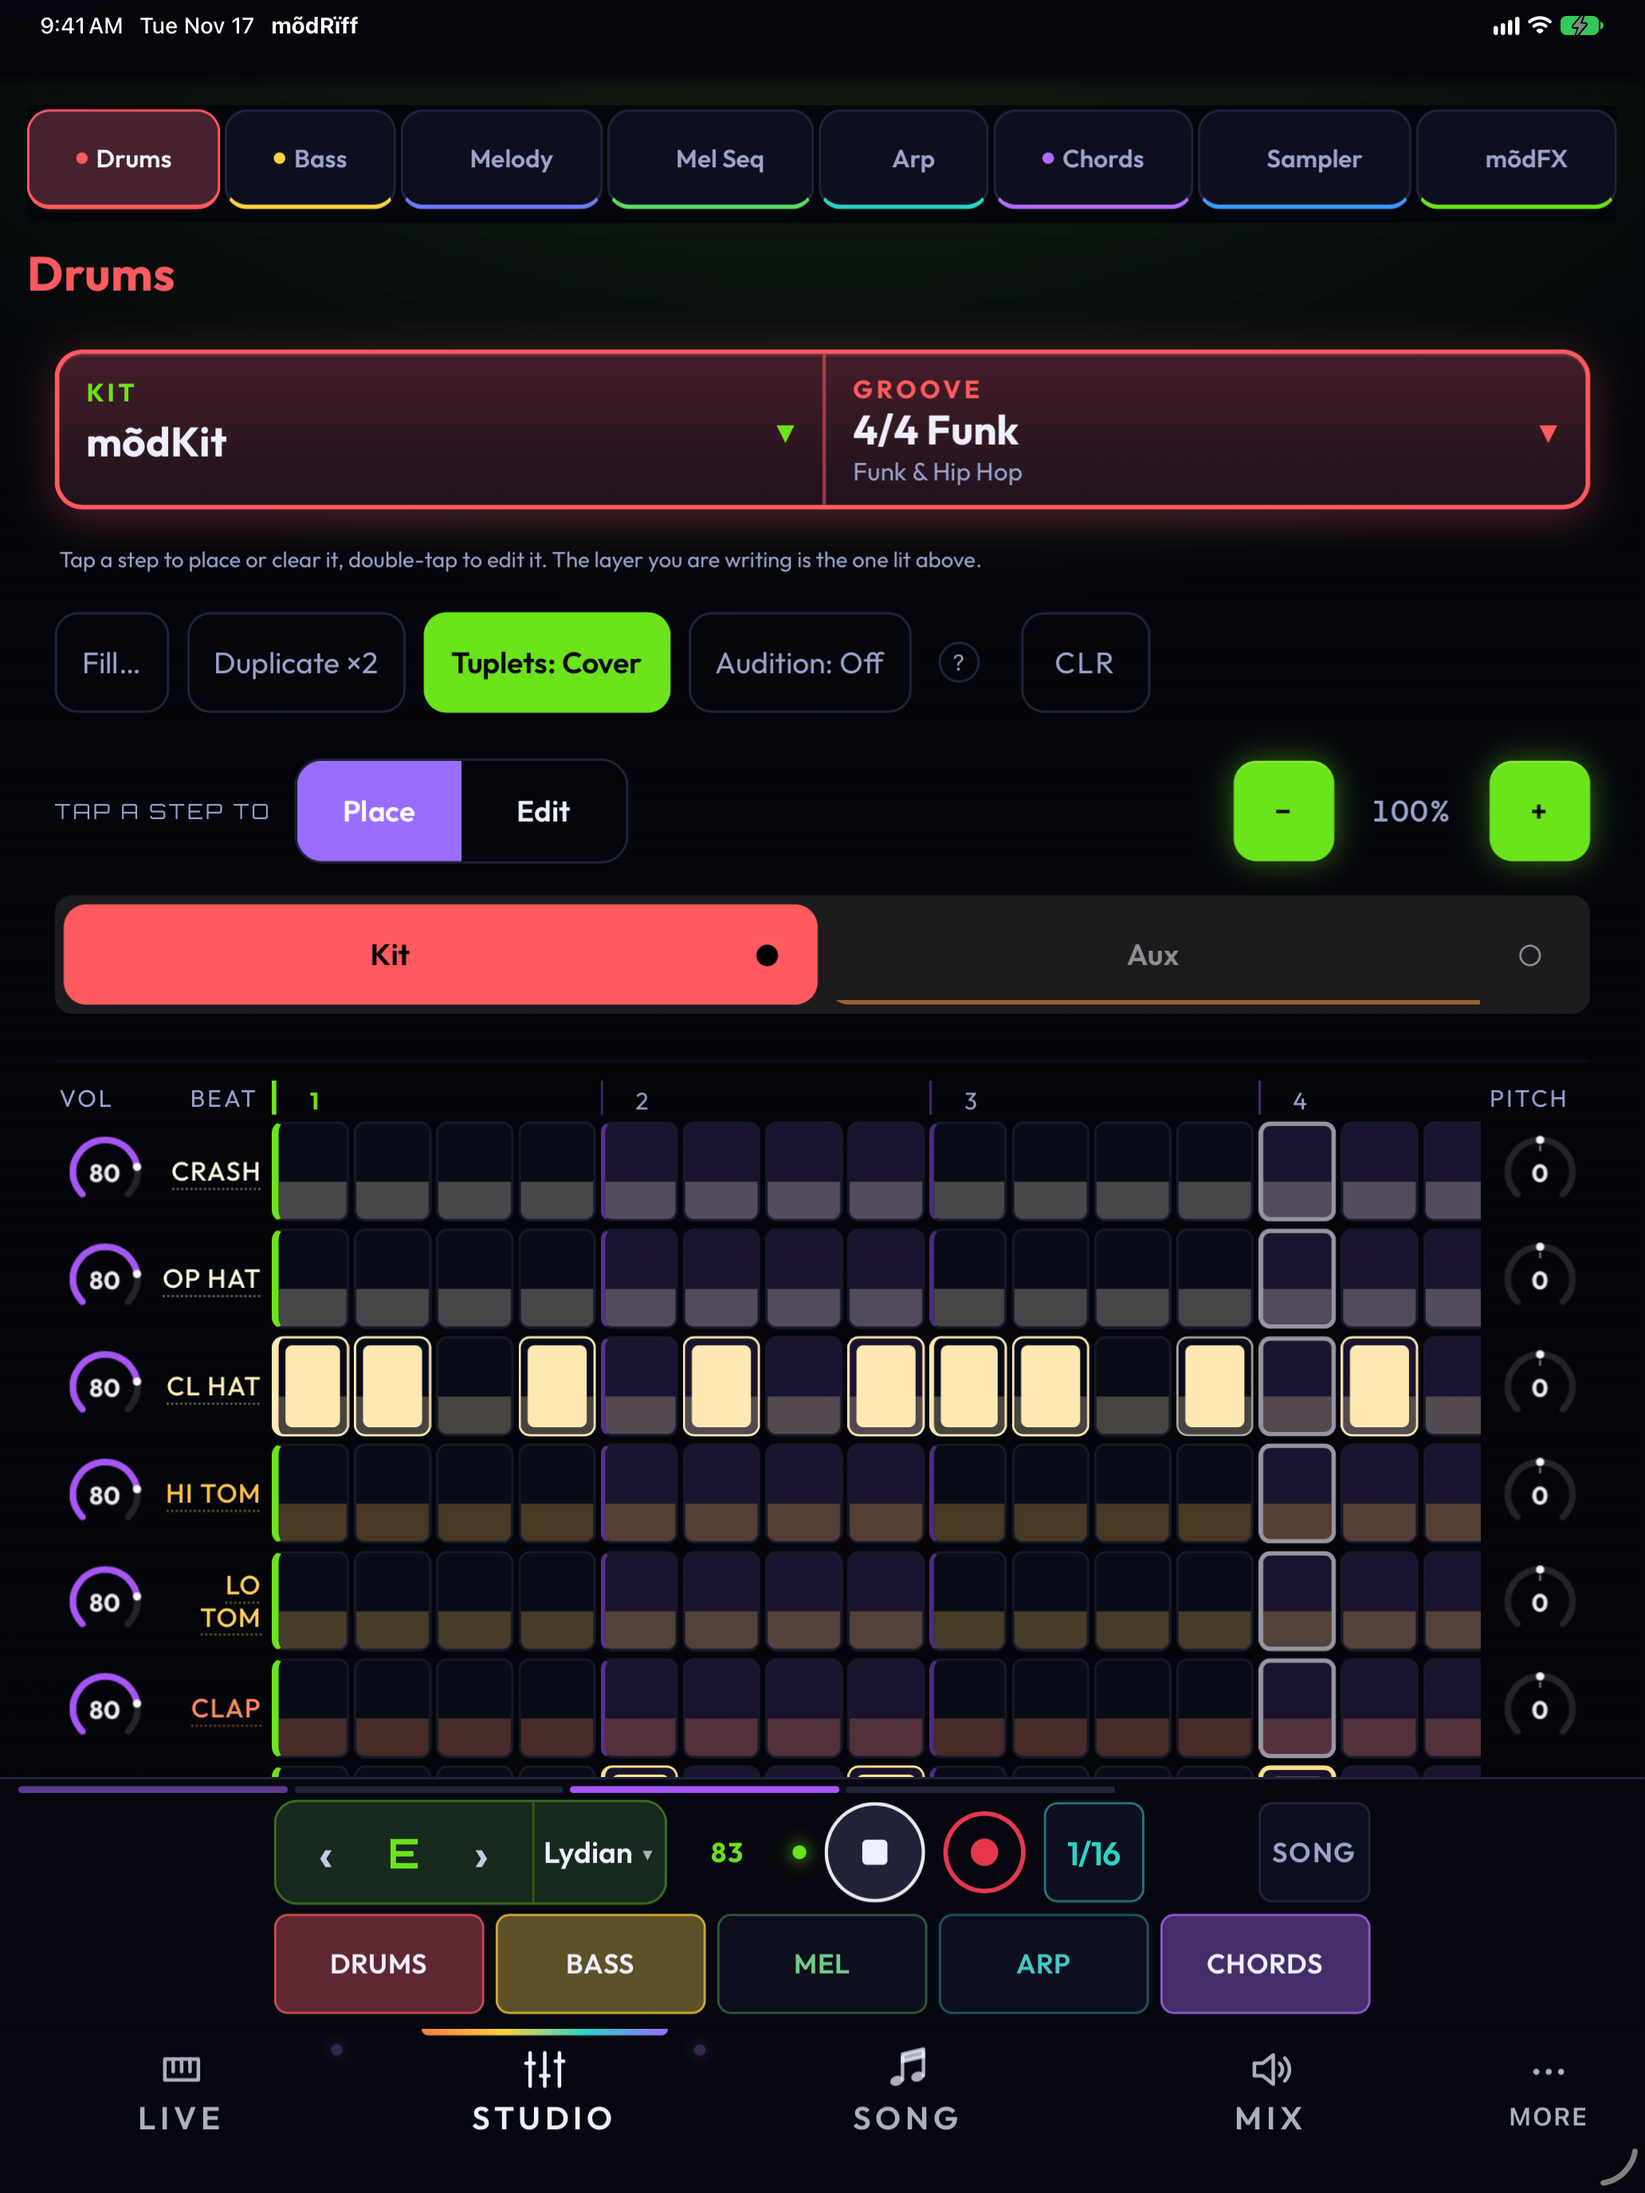
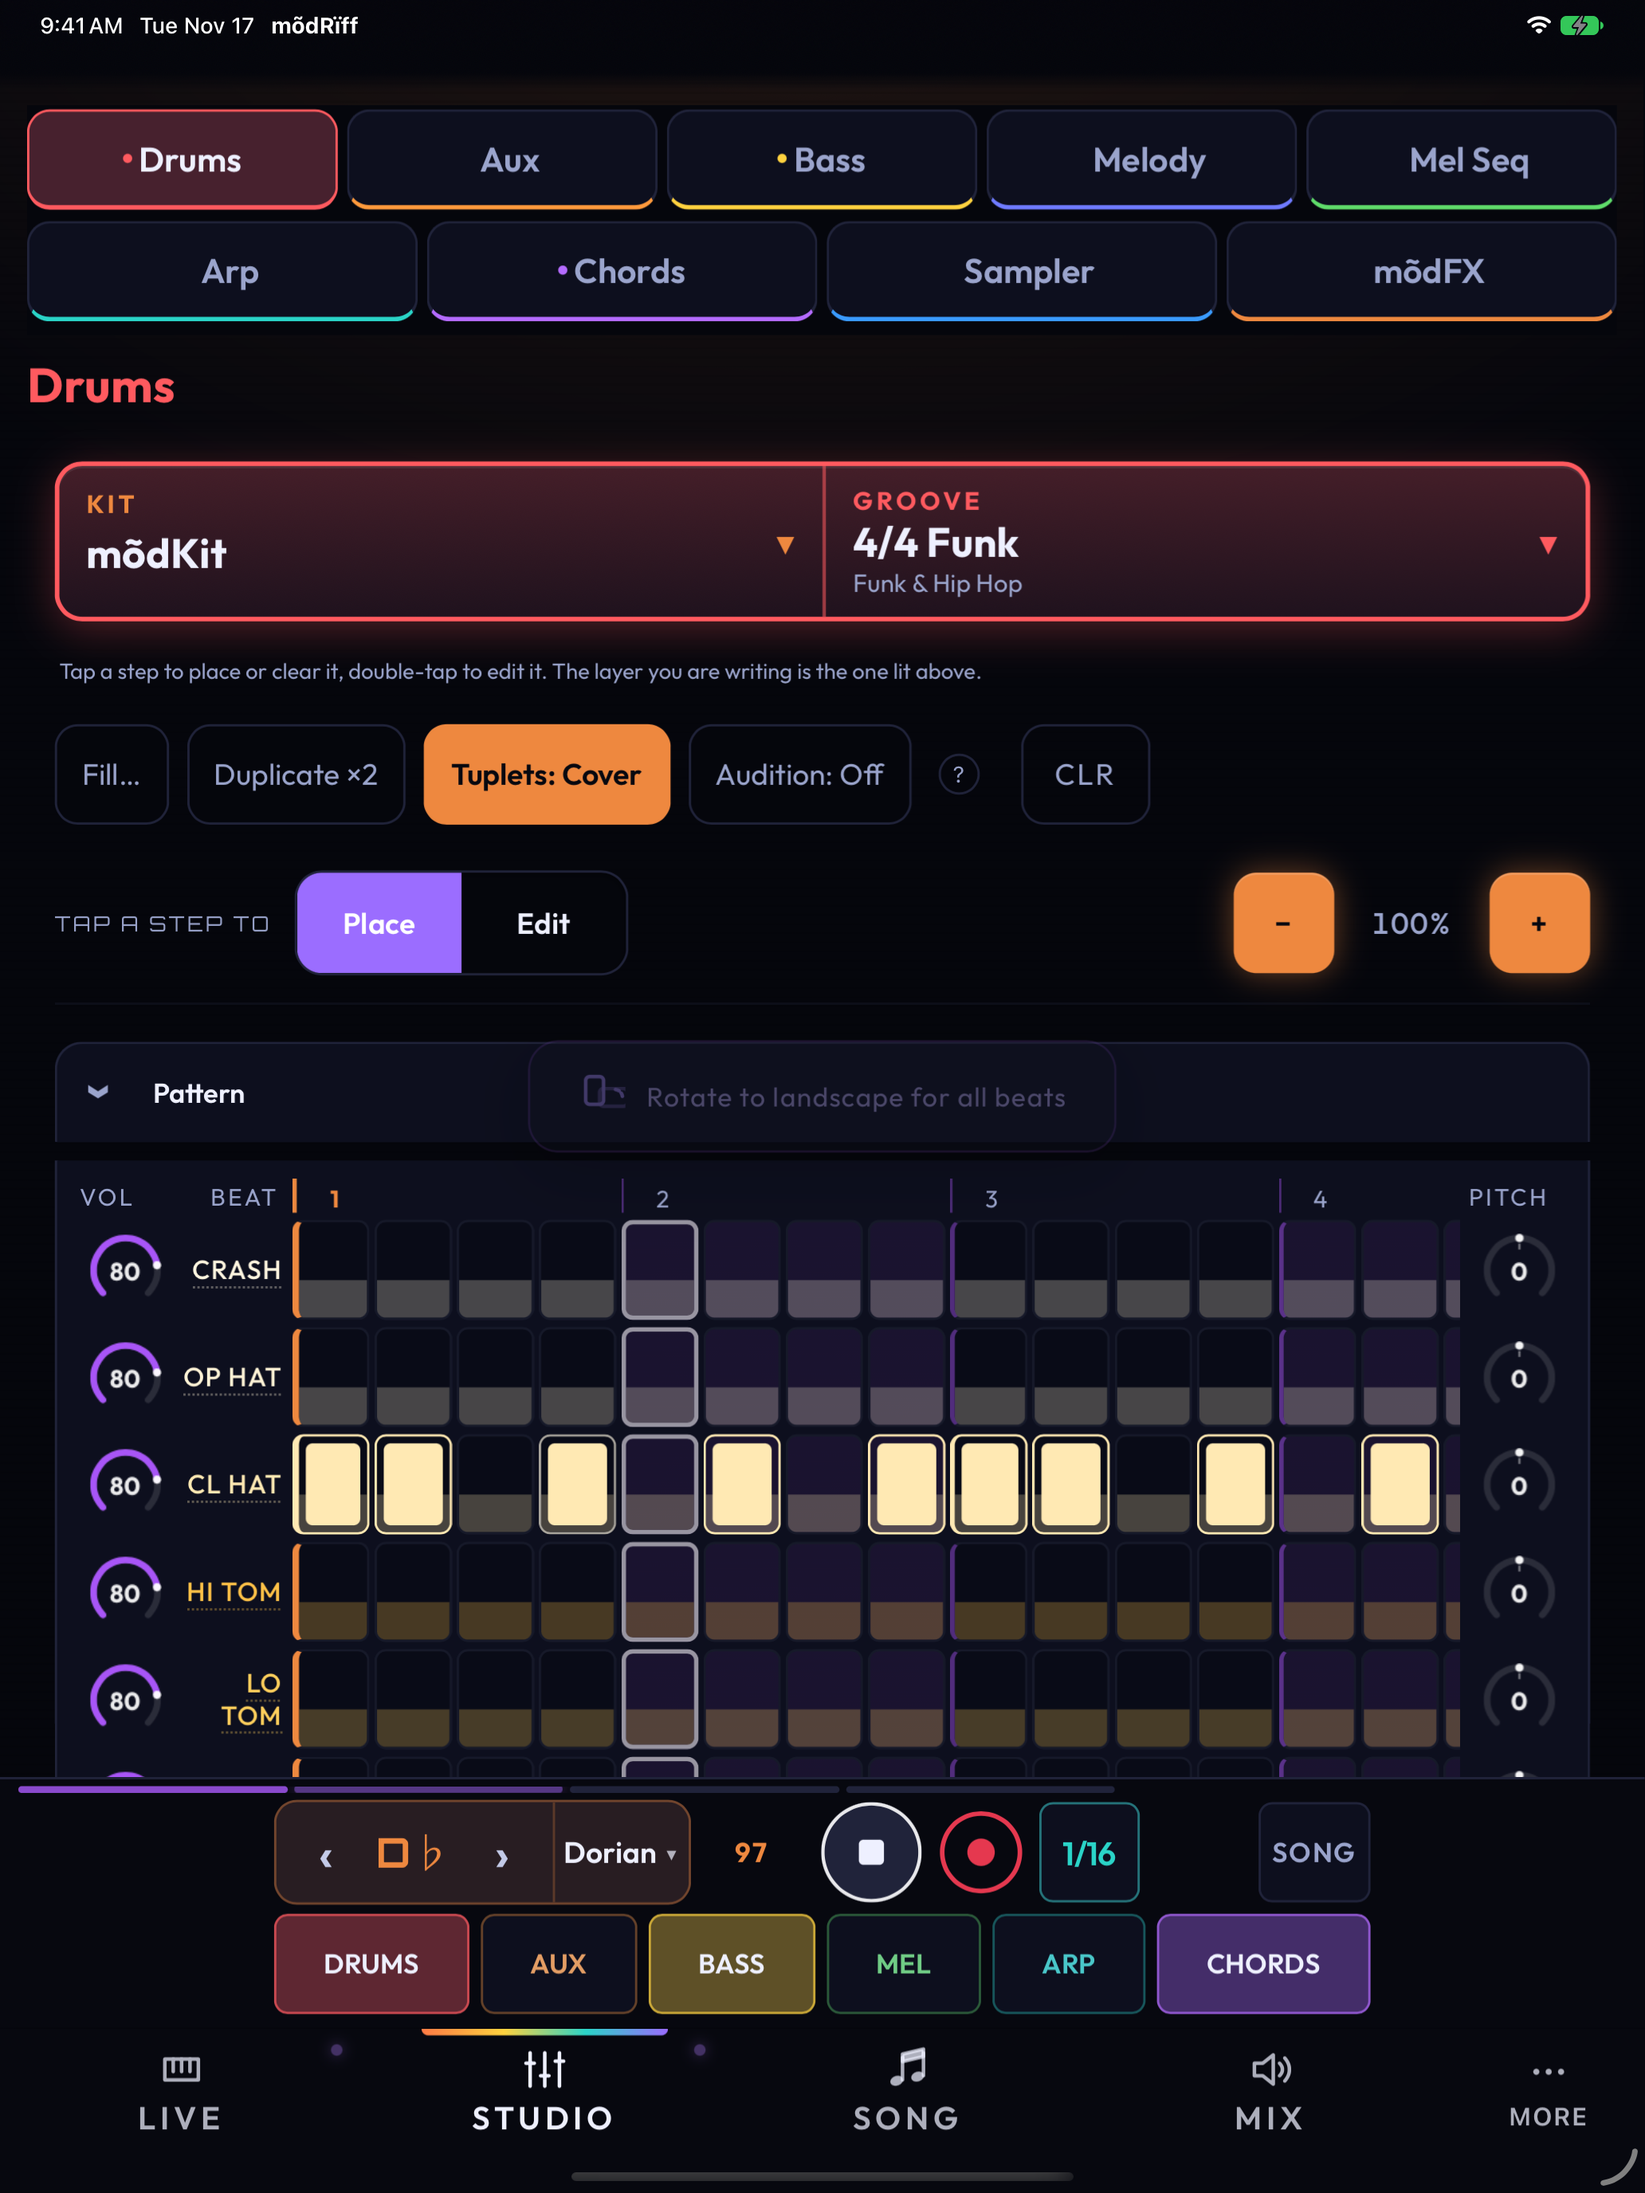
Refresh Studio store stills and use the approved synth caption
Native iPhone and iPad Studio shots show the two-row 15-point selector, Aux and the removed Kit/Aux row. The owner-approved caption is Shape your sound with a real synth. Both pairs were rebuilt and checked at 1320 x 2868 and 2064 x 2752, opaque; the source builder can regenerate one pair at a time.

Codex-Session: https://claude.ai/code/session_01a1ec92-f009-7133-ae05-04a380ca0da8

diff --git a/docs/app-store.md b/docs/app-store.md
@@ -235,15 +235,13 @@ Contact: support@modriff.com
 ## Screenshots
 
 The upload set is `docs/app-store/screenshots/v7.1-captioned/` (the `iphone-6.9in-` and `ipad-13in-` files: 1320 x 2868 and
-2064 x 2752, opaque; five shots each, in this order: Live, Studio, Mix, Song, Stage, each with a caption over a framed screenshot).
-It was retaken for the layout overhaul from build 1.9.2 in the iOS Simulator (iPhone 18 Pro Max, iPad Pro 13-inch (M5)), status bar
+2064 x 2752, opaque; five shots each, in this order: Live, Studio, mõdSynth, Song, Stage, each with a caption over a framed screenshot).
+The Studio shot was refreshed from 1.9.4c on both devices: the larger two-row selector includes Aux and the duplicate Kit/Aux row is gone. The other raw shots were retaken for the layout overhaul from build 1.9.2 in the iOS Simulator (iPhone 18 Pro Max, iPad Pro 13-inch (M5)), status bar
 9:41, every pack open, the app playing a random song. The tabs read Live, Studio, Song, Mix, and the shots show what the overhaul
 made: Live's two rows of four split pads and tall keys, Studio's strip and pick row with a drum groove, the mõdSynth editor with the
 wavetable view, the Song builder and the chord chart. `raw/` holds the plain captures; `build.sh` regenerates the captioned files
 from them (it needs Chrome and `sips`). Everything under `v6.9.9.9.9.9.9.9a/`, `6.9in-`, `13in-`, `v6.9.2/` shows retired tab names
-or older layouts and is history only: do not upload it. `v6.9.6/` is the Duo layout reference. One caption, "A real synth and
-sampler inside", sits over the mõdSynth editor, which does not show the sampler; change the caption in `build.sh` or the shot.
-The app previews were not retaken.
+or older layouts and is history only: do not upload it. `v6.9.6/` is the Duo layout reference. The owner-approved synth caption is "Shape your sound with a real synth". `layout-followthrough-verification.json` records the refreshed stills and dimensions. `bash build.sh studio` or `bash build.sh sound` rebuilds only that pair; no argument rebuilds all five pairs.
 
 How to redo them: build the Simulator app with the optimiser on and the debug switch kept (a plain Debug build runs
 the C++ engine at -O0 and stalls the page; a Release build has no `__modDebug`, so no unlock switch):
